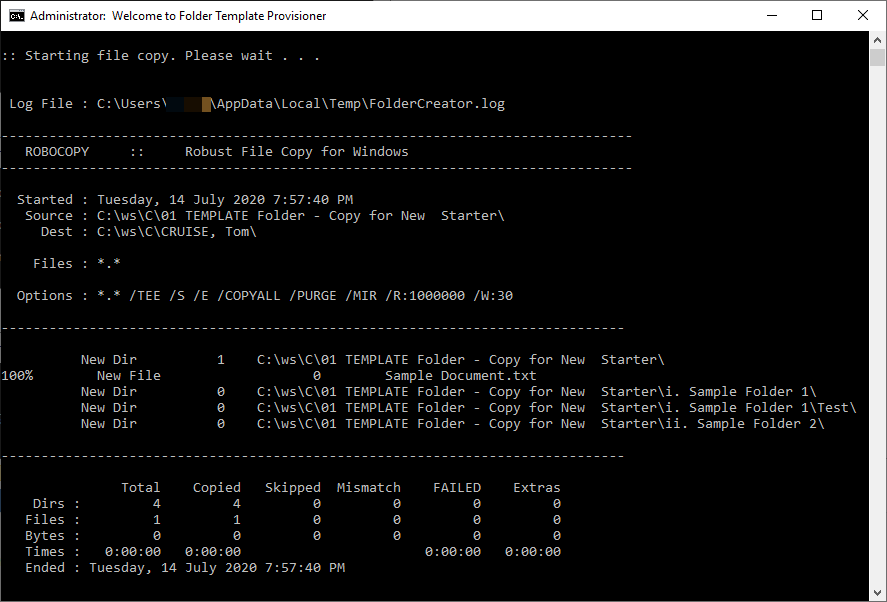
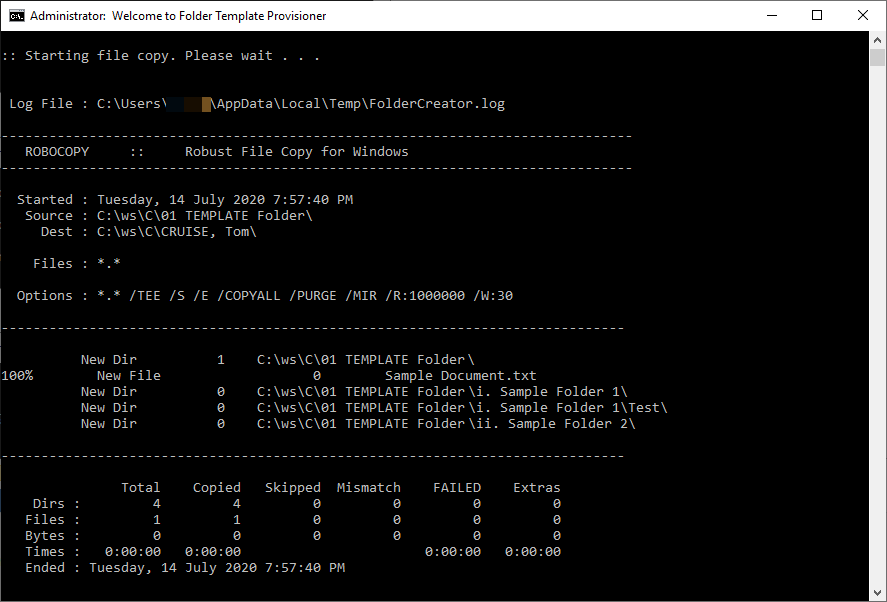
Folder template has been consolidated as single folder instead of multiple ones within sub-folders

Changed region(s): [[0.5175, 0.5681, 0.9741, 0.7176], [0.3653, 0.3289, 0.487, 0.3887], [0.5175, 0.3289, 0.5479, 0.3887]]

diff --git a/README.md b/README.md
@@ -51,9 +51,10 @@ The script has been designed with care to improve usability and avoid accidental
 │ FolderTemplateProvisioner.bat // main script
 │ _elevate.vbs // UAC elevation script (optional)
 │
-├───A
-│   ├───Template Folder // By default: '01 TEMPLATE Folder - Copy for New  Starter'
-│   │                   // containing folders/files of specific permissions to copy
+├───ZZ IT_do not Use\01 Template Folder // Template folder (this can be a sub-folder)
+│                                       // with folders/files of set permissions to copy
+│
+├───A // Last names beginning with an "A"
 │   │───LASTNAME, Firstname 1
 │   │───LASTNAME, Firstname 2
 │   │                       .  // Each copied folder is named in this way according
@@ -71,7 +72,7 @@ The script has been designed with care to improve usability and avoid accidental
 
 ## Steps by Step - How to Set up the Scripts
 
-1. Edit `templateName` variable at the upper area of `FolderTemplateProvisioner.bat` script by setting it to the folder acting as the template, e.g. `01 TEMPLATE Folder - Copy for New  Starter`, with required files and permissions inside
+1. Edit `templateName` variable at the upper area of `FolderTemplateProvisioner.bat` script by setting it to the folder acting as the template, e.g. `ZZ IT_do not Use\01 Template Folder`, with required files and permissions prepared inside
 2. Place both scripts (`FolderTemplateProvisioner.bat` and optionally `_elevate.vbs`) inside a folder containing `A,B,C...Z` sub-folders, sitting beside them. The `A-Z` folders contains the template folder and provisioned folders named '`LASTNAME, Firstname`' copied by the script from the template folder
 
 ## Step by Step - How to Provision a New Folder
@@ -137,3 +138,10 @@ E. No admin rights are detected, while UAC is off and/or the optional `_elevate.
 F. Robocopy error ends with a return code presented to user
 
 ![Error - Robocopy error ends with a return code presented to user](_images/e06-robocopy-error-with-return-code.png)
+
+## Release History
+
+| Ver | Date | Changes |
+| --- | --- | --- |
+| 1.1 | 20200719 | Folder template consolidated as single folder instead of multiple ones within sub-folders |
+| 1.0 | 20200714 | [First release](https://github.com/wandersick/ws-folder-template-provisioner/tree/6b0c9aad5375afc5dfa0ef687daeeced399d642b) where template folders are located in each sub-folders |
